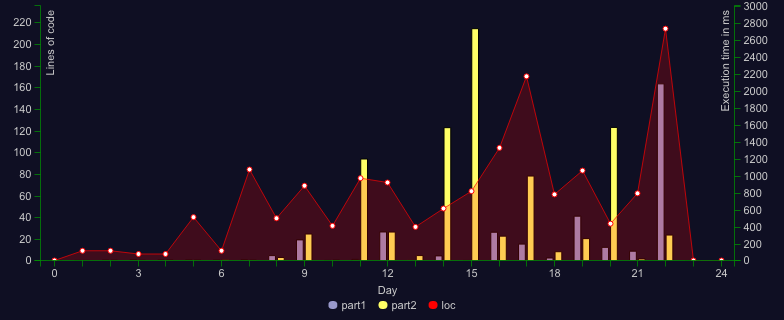
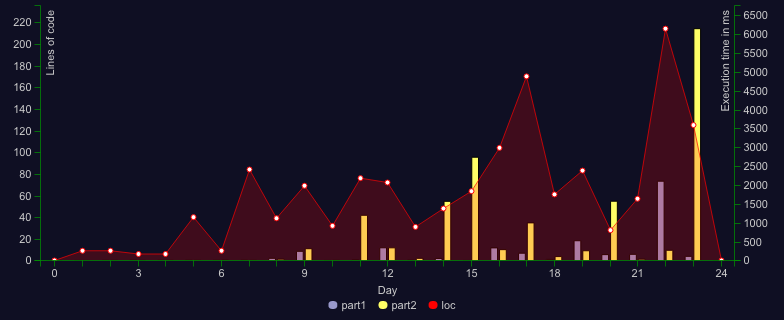
day 23: done

diff --git a/src/day23/index.ts b/src/day23/index.ts
@@ -1,0 +1,193 @@
+import run from "aocrunner"
+import { map, pipe, range, split } from "ramda"
+import { splitLines } from "../utils/index.js"
+
+const p = (x: number, y: number) => `${x},${y}`
+const xy = pipe(split(","), map(Number))
+
+const parseElves = (lines: string[]) =>
+  new Set(
+    lines
+      .flatMap((line, y) => line.split("").map((c, x) => (c === "#" ? p(x, y) : null)))
+      .filter(Boolean) as string[],
+  )
+
+const parseInput = pipe(splitLines, parseElves)
+
+const DIRECTIONS = [0, 1, 2, 3, 4, 5, 6, 7]
+const [N, NE, E, SE, S, SW, W, NW] = DIRECTIONS
+const LOOK_DIRECTIONS = [
+  [N, NW, NE],
+  [S, SE, SW],
+  [W, NW, SW],
+  [E, NE, SE],
+]
+const deltas = [
+  [0, -1],
+  [1, -1],
+  [1, 0],
+  [1, 1],
+  [0, 1],
+  [-1, 1],
+  [-1, 0],
+  [-1, -1],
+]
+const move = (x: number, y: number, dir: number) => {
+  const [dx, dy] = deltas[dir]
+  return p(x + dx, y + dy)
+}
+const neighbours = (x: number, y: number, dirs = DIRECTIONS) => dirs.map((dir) => move(x, y, dir))
+
+const findFirstValidDir = (queue: number[][], x: number, y: number, elves: Set<string>) => {
+  for (const dirs of queue) {
+    const ns = neighbours(x, y, dirs)
+
+    if (ns.some((n) => elves.has(n))) {
+      continue
+    }
+
+    return dirs[0]
+  }
+  return null
+}
+
+const step = (elves: Set<string>, gen: number) => {
+  const proposals = Array.from(elves)
+    .map(xy)
+    .reduce((acc, [x, y]) => {
+      const ns = neighbours(x, y)
+      if (ns.some((n) => elves.has(n))) {
+        acc.set(p(x, y), null)
+      }
+      return acc
+    }, new Map<string, string | null>())
+
+  const lookQueue = range(0, 4).map((i) => LOOK_DIRECTIONS[(i + gen) % LOOK_DIRECTIONS.length]!)
+  Array.from(proposals.keys())
+    .map(xy)
+    .forEach(([x, y]) => {
+      const dir = findFirstValidDir(lookQueue, x, y, elves)
+
+      if (dir !== null) {
+        proposals.set(p(x, y), move(x, y, dir))
+      } else {
+        proposals.delete(p(x, y))
+      }
+    })
+
+  const validDestinations = Array.from(proposals.values())
+    .filter((s: string | null): s is string => Boolean(s))
+    .reduce((acc, pos) => {
+      acc.set(pos, !acc.has(pos))
+      return acc
+    }, new Map<string, boolean>())
+
+  return new Set(
+    [...elves.keys()]
+      .map((pos) => [pos, proposals.get(pos)] as const)
+      .map(([curr, next]) => (next && validDestinations.get(next!) ? next : curr)),
+  )
+}
+
+const prettyPrint = (elves: Set<string>) => {
+  const xys = Array.from(elves).map(xy)
+  const [minX, maxX] = [Math.min(...xys.map(([x]) => x)), Math.max(...xys.map(([x]) => x))]
+  const [minY, maxY] = [Math.min(...xys.map(([, y]) => y)), Math.max(...xys.map(([, y]) => y))]
+
+  range(minY, maxY + 1).forEach((y) => {
+    range(minX, maxX + 1).forEach((x) => {
+      process.stdout.write(elves.has(p(x, y)) ? "#" : ".")
+    })
+    process.stdout.write("\n")
+  })
+  console.log()
+}
+
+const setEquals = (a: Set<string>, b: Set<string>) =>
+  a.size === b.size && [...a.keys()].every((k) => b.has(k))
+
+const simulate = (steps: number) => (elves: Set<string>) => {
+  let gen = 0
+  // prettyPrint(elves)
+  while (true) {
+    const next = step(elves, gen)
+    gen += 1
+
+    // console.log(`ROUND: ${gen}`)
+    // prettyPrint(elves)
+    // console.log()
+
+    if (gen > steps) {
+      break
+    }
+    if (steps === Infinity && setEquals(elves, next)) {
+      break
+    }
+
+    elves = next
+  }
+  return [elves, gen] as const
+}
+
+const countEmptyGround = (elves: Set<string>) => {
+  const [minX, maxX, minY, maxY] = Array.from(elves)
+    .map(xy)
+    .reduce(
+      ([minX, maxX, minY, maxY], [x, y]) => [
+        Math.min(minX, x),
+        Math.max(maxX, x),
+        Math.min(minY, y),
+        Math.max(maxY, y),
+      ],
+      [Infinity, -Infinity, Infinity, -Infinity],
+    )
+  const area = (maxX - minX + 1) * (maxY - minY + 1)
+
+  return area - elves.size
+}
+
+const part1 = pipe(parseInput, simulate(10), ([elves]) => countEmptyGround(elves))
+
+const part2 = pipe(parseInput, simulate(Infinity), ([_, gen]) => gen)
+
+run({
+  part1: {
+    tests: [
+      {
+        input: `
+          .....
+          ..##.
+          ..#..
+          .....
+          ..##.
+          .....
+        `,
+        expected: 25,
+      },
+      {
+        input: `
+          ....#..
+          ..###.#
+          #...#.#
+          .#...##
+          #.###..
+          ##.#.##
+          .#..#..
+        `,
+        expected: 110,
+      },
+    ],
+    solution: part1,
+  },
+  part2: {
+    tests: [
+      // {
+      //   input: ``,
+      //   expected: "",
+      // },
+    ],
+    solution: part2,
+  },
+  trimTestInputs: true,
+  onlyTests: false,
+})

diff --git a/README.md b/README.md
@@ -38,7 +38,7 @@
 [![Day](https://badgen.net/badge/20/%E2%98%85%E2%98%85/green)](src/day20)
 [![Day](https://badgen.net/badge/21/%E2%98%85%E2%98%85/green)](src/day21)
 [![Day](https://badgen.net/badge/22/%E2%98%85%E2%98%85/green)](src/day22)
-![Day](https://badgen.net/badge/23/%E2%98%86%E2%98%86/gray)
+[![Day](https://badgen.net/badge/23/%E2%98%85%E2%98%85/green)](src/day23)
 ![Day](https://badgen.net/badge/24/%E2%98%86%E2%98%86/gray)
 ![Day](https://badgen.net/badge/25/%E2%98%86%E2%98%86/gray)
 
@@ -214,23 +214,23 @@ Both parts: 1726.42ms
 
 ```
 Day 21
-Time part 1: 110.067ms
-Time part 2: 18.53ms
-Both parts: 128.597ms
+Time part 1: 163.446ms
+Time part 2: 34.843ms
+Both parts: 198.288ms
 ```
 
 ```
 Day 22
-Time part 1: 1804.394ms
-Time part 2: 284.509ms
-Both parts: 2088.903ms
+Time part 1: 2101.051ms
+Time part 2: 271.013ms
+Both parts: 2372.064ms
 ```
 
 ```
 Day 23
-Time part 1: -
-Time part 2: -
-Both parts: -
+Time part 1: 121.579ms
+Time part 2: 5449.158ms
+Both parts: 5570.737ms
 ```
 
 ```
@@ -248,8 +248,8 @@ Both parts: -
 ```
 
 ```
-Total stars: 42/50
-Total time: 12693.488ms
+Total stars: 44/50
+Total time: 18617.077ms
 ```
 
 <!--/RESULTS-->

diff --git a/src/day23/README.md b/src/day23/README.md
@@ -1,0 +1,9 @@
+# 🎄 Advent of Code 2022 - day 23 🎄
+
+## Info
+
+Task description: [link](https://adventofcode.com/2022/day/23)
+
+## Notes
+
+...
